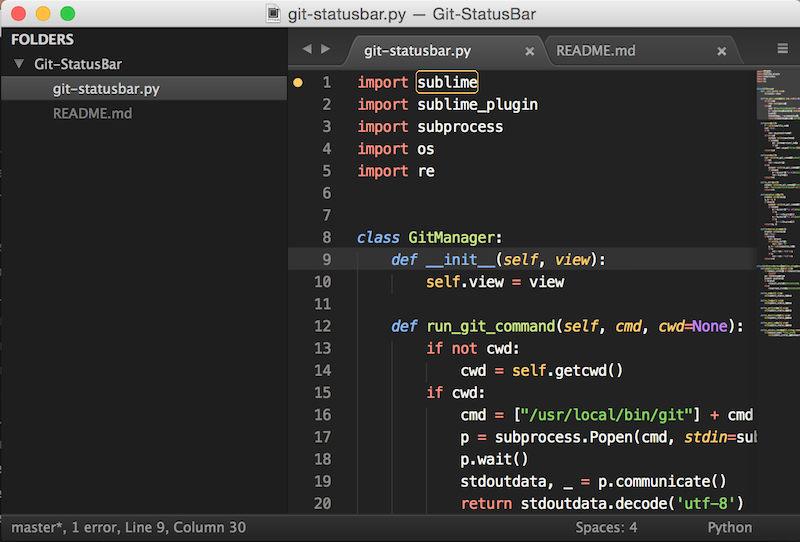
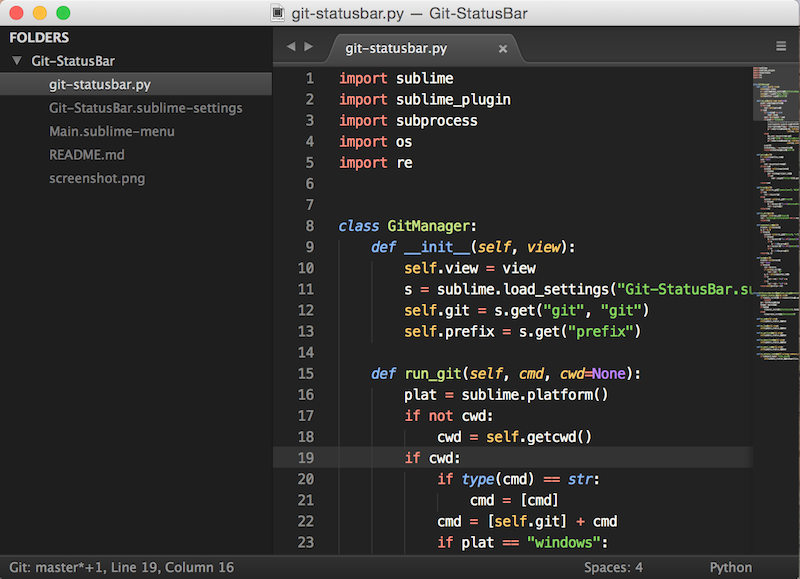
change screenshort and some fixes

Changed region(s): [[0.0, 0.0, 1.0, 1.0], [0.0, 0.9446, 0.3125, 1.0]]

diff --git a/git-statusbar.py b/git-statusbar.py
@@ -10,7 +10,7 @@ class GitManager:
         self.view = view
         s = sublime.load_settings("Git-StatusBar.sublime-settings")
         self.git = s.get("git", "git")
-        self.prefix = s.get("prefix")
+        self.prefix = s.get("prefix", "")
 
     def run_git(self, cmd, cwd=None):
         plat = sublime.platform()
@@ -80,7 +80,7 @@ class GitManager:
 
     def badge(self):
         branch = self.branch()
-        ret = None
+        ret = ""
         if branch:
             ret = branch
             if self.is_dirty():
